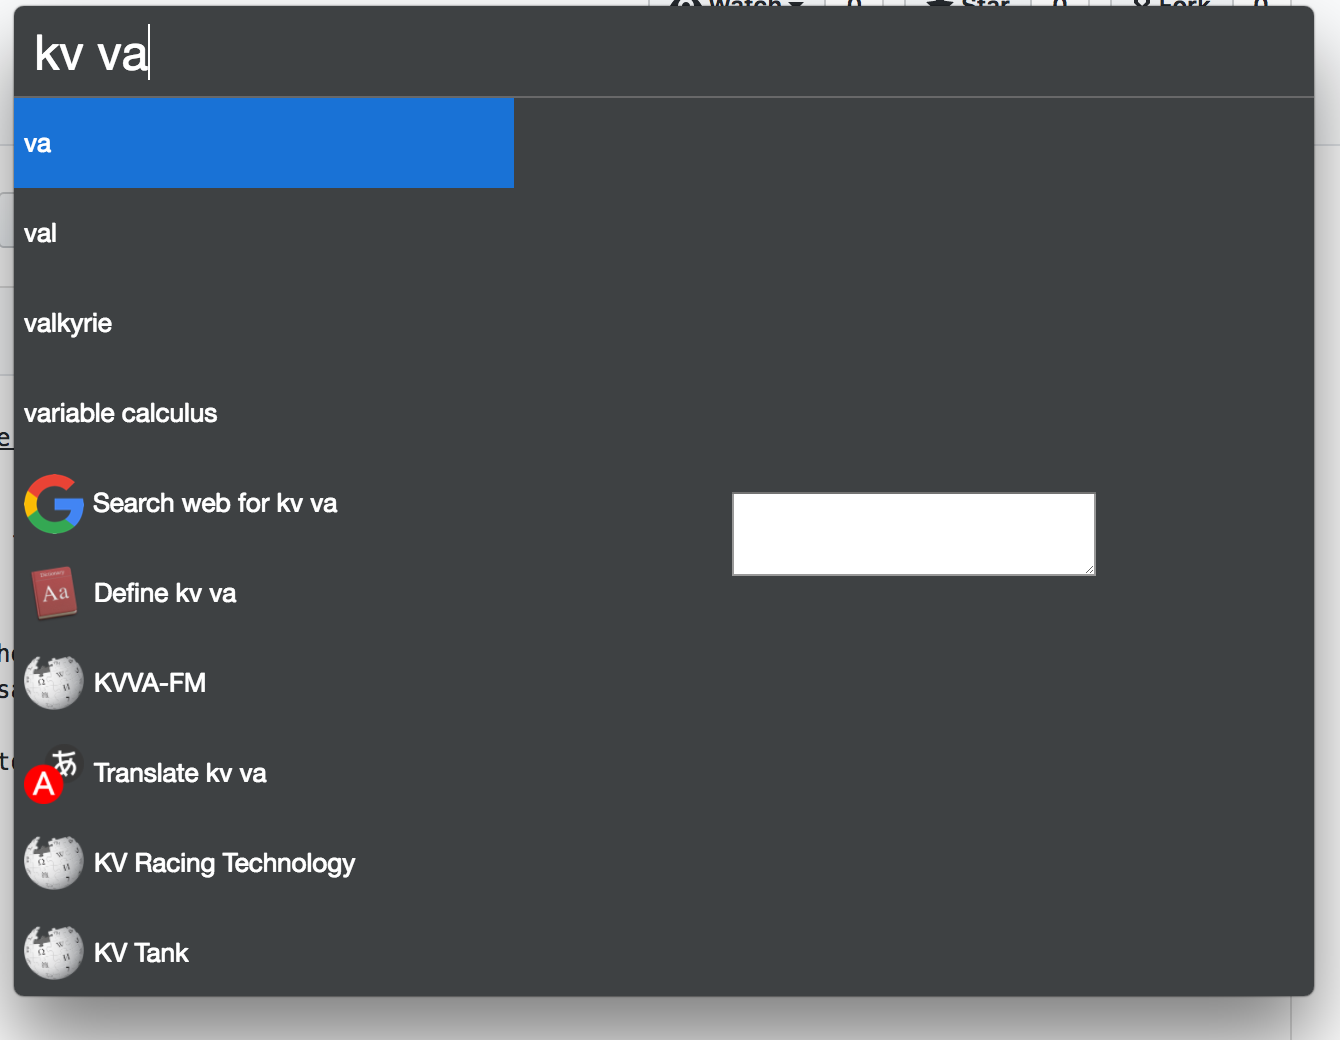
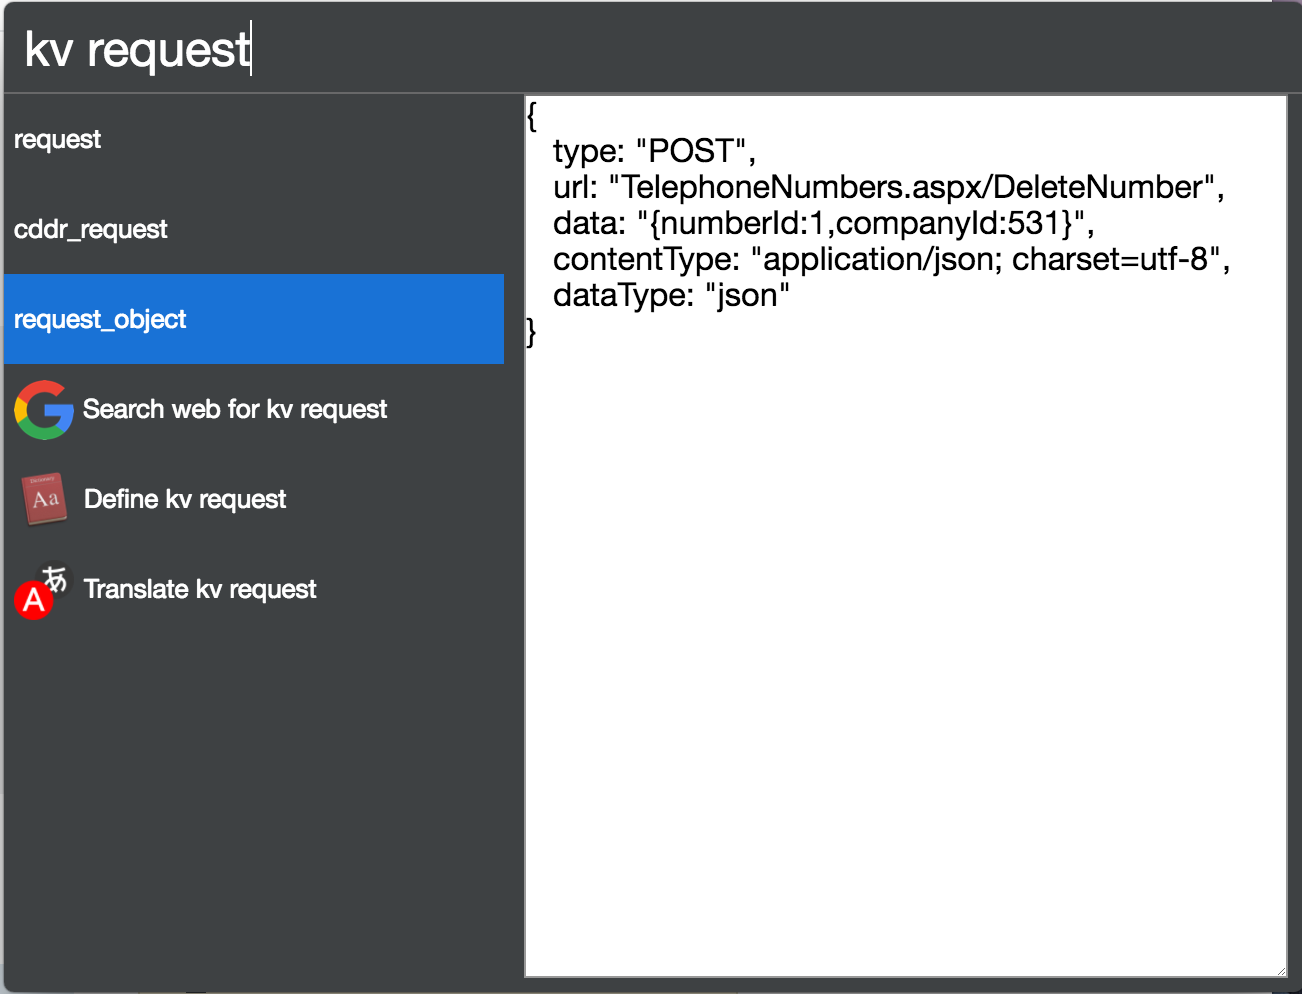
fixed preview to be full panel

diff --git a/src/preview.jsx b/src/preview.jsx
@@ -1,4 +1,6 @@
-const React = require('react');
+const React = require('react')
+const styles = require('./styles.css')
+
 module.exports = ({key, value, change, save, remove}) => {
     const onBlur = () => {
         if (value == '') {
@@ -8,15 +10,9 @@ module.exports = ({key, value, change, save, remove}) => {
         }
     };
 
-    const styles = {
-        'min-width': '300px',
-        'min-height': '800px'
-    }
-
     return(
-        <div key={key} styles={styles}>
-          <textarea name="body" onChange={({target}) => change(target.value)} onBlur={onBlur} value={value}/>
-          <div>{value}</div>
+        <div key={key} className={styles.wrapper}>
+          <textarea className={styles.text} name="body" onChange={({target}) => change(target.value)} onBlur={onBlur} value={value}/>
         </div>
     )
 }

diff --git a/src/styles.css b/src/styles.css
@@ -1,0 +1,12 @@
+.wrapper {
+  align-self: flex-start;
+  width: 100%;
+  position: relative;
+  transition: all .3s linear;
+}
+.text {
+  width: 100%;
+  height: 440px;
+  margin: 0;
+  padding: 0;
+}

diff --git a/README.md b/README.md
@@ -2,7 +2,7 @@
 A simple key-value store plugin for [Cerebro Search](https://github.com/KELiON/cerebro)
 
 ## Usage
-type `kv {key}` and enter anything you like into the text box in the preview. this should then show up the next time you search for the same key. 
+type `kv {key}` and enter anything you like into the text box in the preview. this should then show up the next time you search for the same key.
 
 The results are a list of matches to the entered key. If the exact key you've entered has no value stored against it, it will show as a blank textbox and will only save if you enter a value.
 
